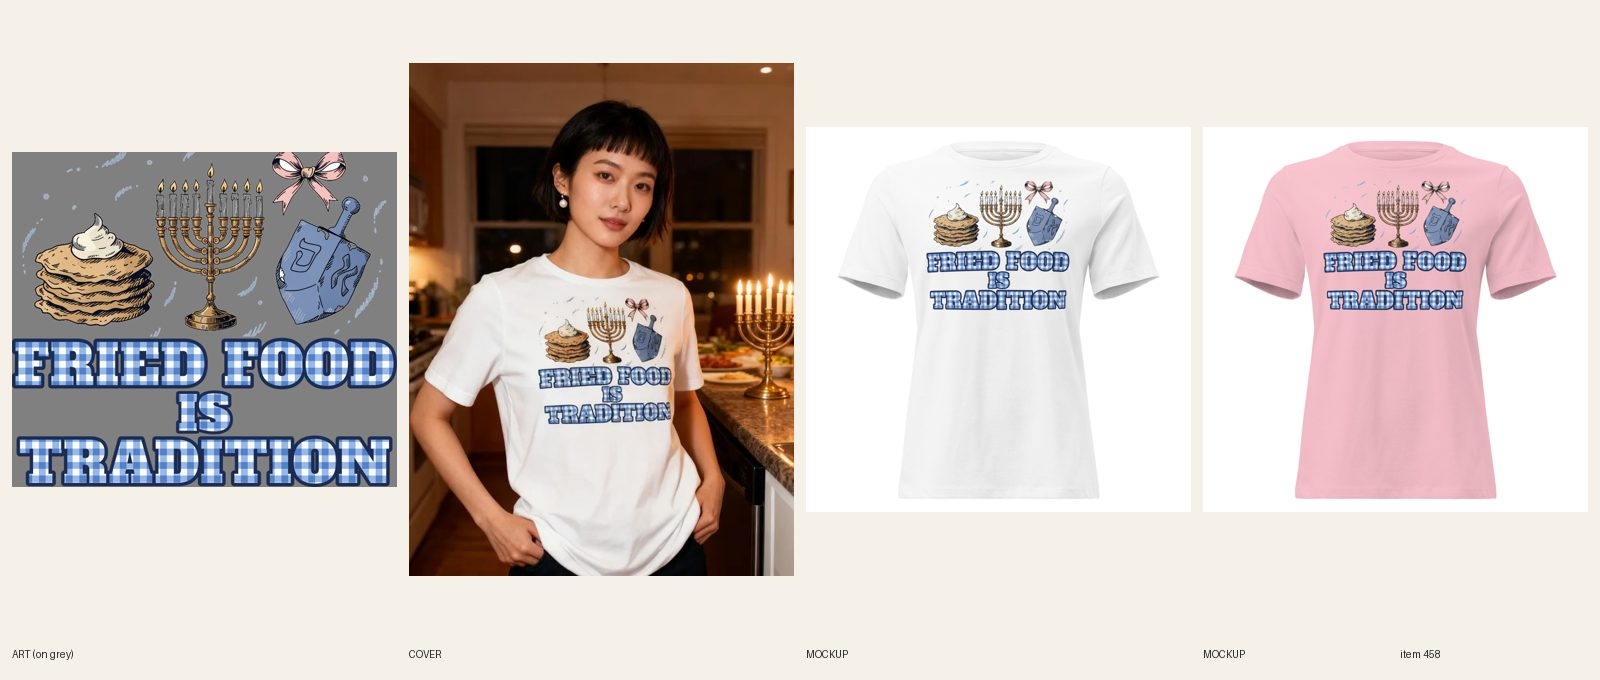
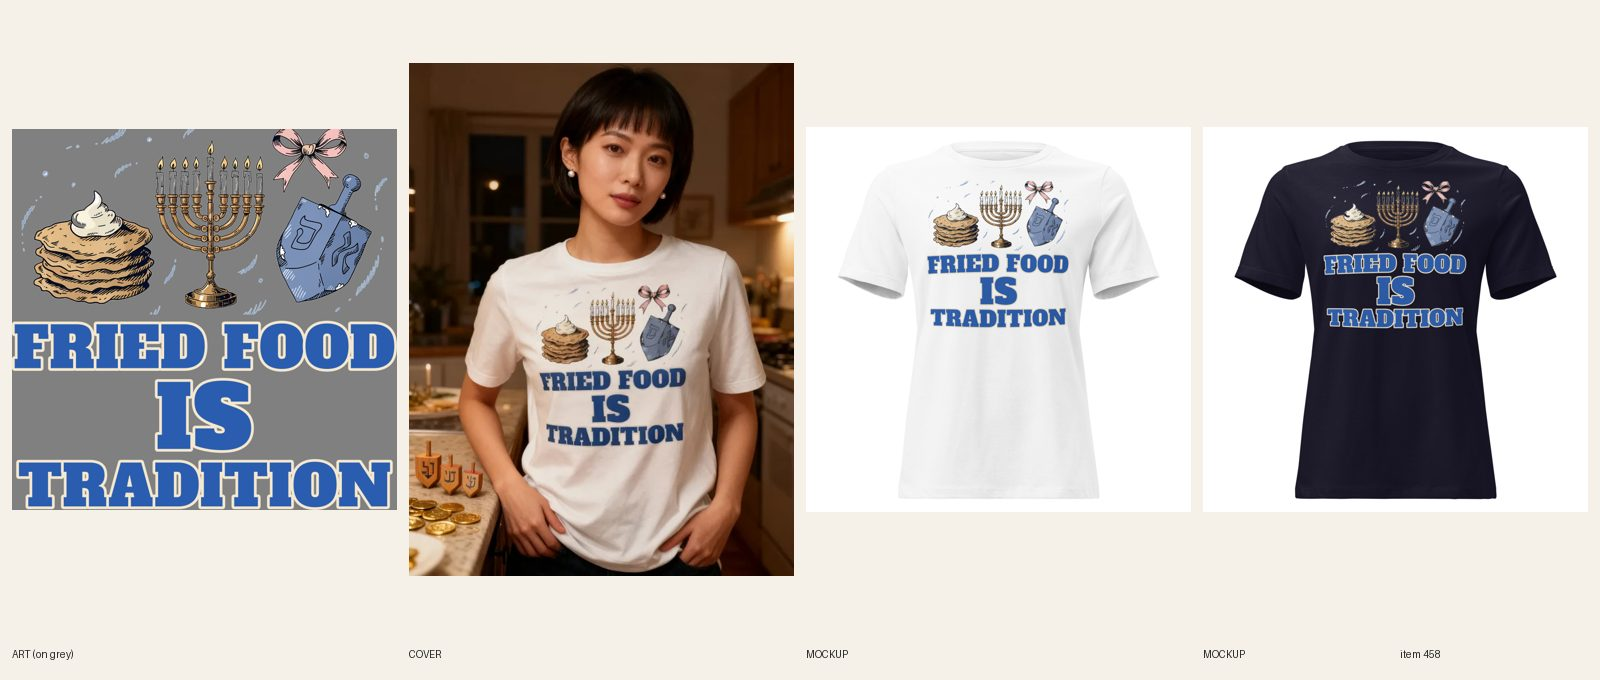
[A] R5.3.10 solid-ink fix for 458 (gingham letters replaced); resync queued
Claude-Session: https://claude.ai/code/session_01TsWHYwEQ2LyKMjvyqfq1FM

diff --git a/docs/pipeline/458-hanukkah-tee-latke-queen.md b/docs/pipeline/458-hanukkah-tee-latke-queen.md
@@ -27,3 +27,4 @@ kd: 36
 - 2026-10-18 02:45 UTC director: LIVE (ACTIVE + Online Store/Headless/Google & YouTube, audit PASS 0 warn).
 - 2026-10-18 02:53 UTC Claude: REDO (Sam saw it live and hated it). Wrong: the menorah's candle count is wrong, the dreidel has fake Hebrew letters, the gingham-filled Alfa Slab looks like clip-art, the "IS" is tiny, the pink bow is random. New spec: keep the line FRIED FOOD IS TRADITION. Art (Recraft, no lettering): only fried foods, the joke's own subject: a golden stack of latkes with sour cream and applesauce, plus 2-3 powdered jelly sufganiyot, vintage diner-menu illustration, warm gold, cream, cornflower blue. NO menorah, dreidel, Star of David or Hebrew (R5.3.9). Words: solid navy (cream on dark blanks) in one bold real font, all three lines similar width (IS gets set large between two rules, not tiny), no pattern fill (R5.3.10), no bow. FW 1650 crew / FW 1800 tee. Replace the Printful file, all mockups and the cover on the SAME products (handle stays, product stays ACTIVE; never unpublish). Twin #458 reuses #457's new file.
 - 2026-10-18 02:53 UTC Claude: LINE CHANGE (Sam was confused by the old line; the oil-miracle joke needs explaining): the shirt now says EIGHT NIGHTS OF FRIED FOOD (two lines: EIGHT NIGHTS / OF FRIED FOOD). Update title, SEO title/meta and copy line one to the new line; HANDLE STAYS (keeps the URL). Art spec above unchanged (latkes + sufganiyot only).
+- 2026-10-18 06:10 UTC builder [A]: R5.3.10 self-fix (rule landed after my build): the gingham-filled letters are replaced with SOLID cornflower-blue Alfa Slab capitals with a cream keyline (FRIED FOOD / IS / TRADITION), set with compose-print over the same motif row (latkes, 9-candle menorah, bow, dreidel) cropped from the source print. Print 3128x3094 (Printful file 1088693860), FW 1500, re-link queued behind the others (36, verify default file = 1088693860 before the director publishes). New mockups for 6 colors + back replace the media, linked per color. Cover: two new generations ($0.12; the first had a counter menorah cut by the frame and showing 7 candles, so the second has no menorah in the scene): print legible, hands in pockets, nothing over it. Copy/SEO no longer say gingham. Note for the director: #457 (lane C, LIVE) carries the same gingham letters.

diff --git a/docs/model-registry.md b/docs/model-registry.md
@@ -550,7 +550,7 @@ Rows 11–43 were re-pointed on 2026-10-08 when the briefs were rewritten from d
 | 655 | Black man, late 20s, short twists | USED 2026-10-18 — #456 Spin Responsibly tee cover (with #656, seedream 1 attempt) |
 | 656 | white woman, late 20s, auburn bob | USED 2026-10-18 — #456 Spin Responsibly tee cover (with #655) |
 | 657 | Latina woman, mid 40s, chestnut layered blowout, diamond studs | USED 2026-10-17 - #457 Fried Food Is Tradition crewneck cover (seedream, sand, kitchen) |
-| 658 | East Asian woman, late 20s, short choppy pixie cut, small pearl drops | USED 2026-10-18 — #458 Fried Food Is Tradition tee cover (seedream, 1 attempt) |
+| 658 | East Asian woman, late 20s, short choppy pixie cut, small pearl drops | USED 2026-10-18 — #458 Fried Food Is Tradition tee cover (seedream; redo for solid lettering: 2 more generations) |
 | 659 | Native American man, early 30s, long black hair tied back, light stubble | RESERVED — #459 Pedal Pusher Heavyweight Hoodie cover |
 | 660 | white woman, mid 20s, long platinum-blonde waves, gold hoops | USED 2026-10-17 — #460 cover (seedream, 3 attempts: hair covered the line, then ponytail + drawstring + white bars, try 3 kept cropped inside the white bars)
 | 659 | Native American man, early 30s, long black hair tied back, light stubble | USED 2026-10-17 — #459 Pedal Pusher heavyweight hoodie cover (seedream, 1 attempt) |
